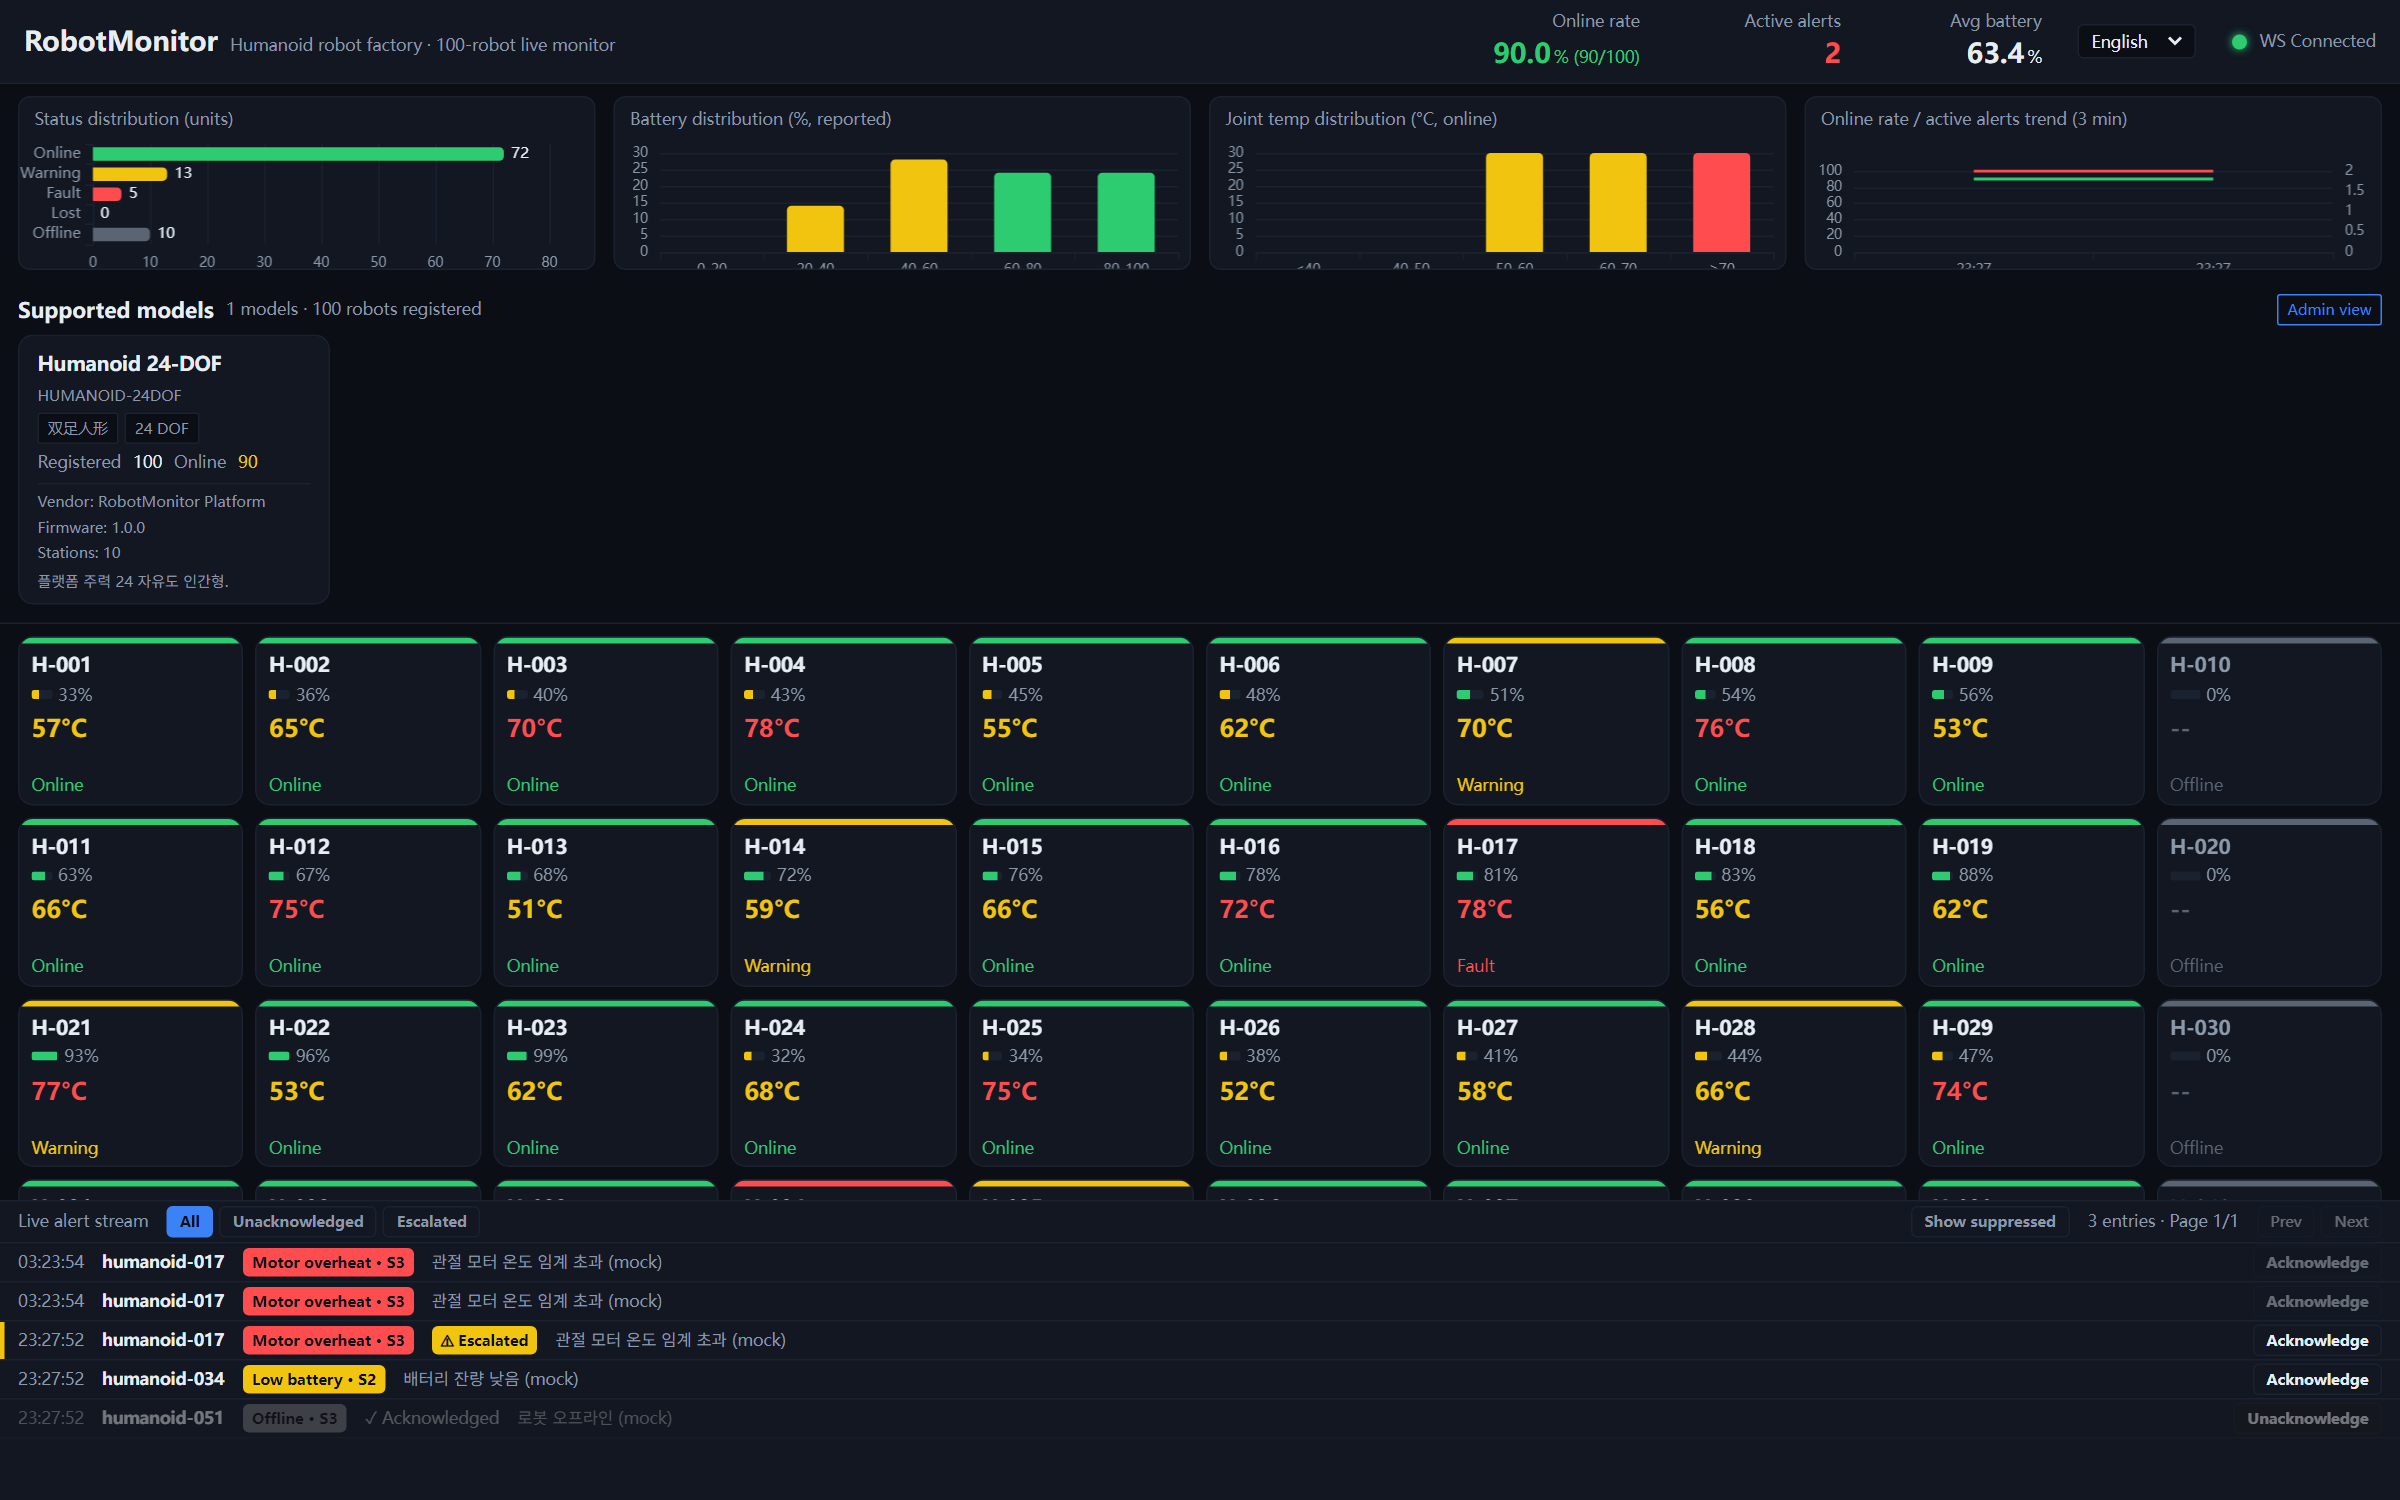
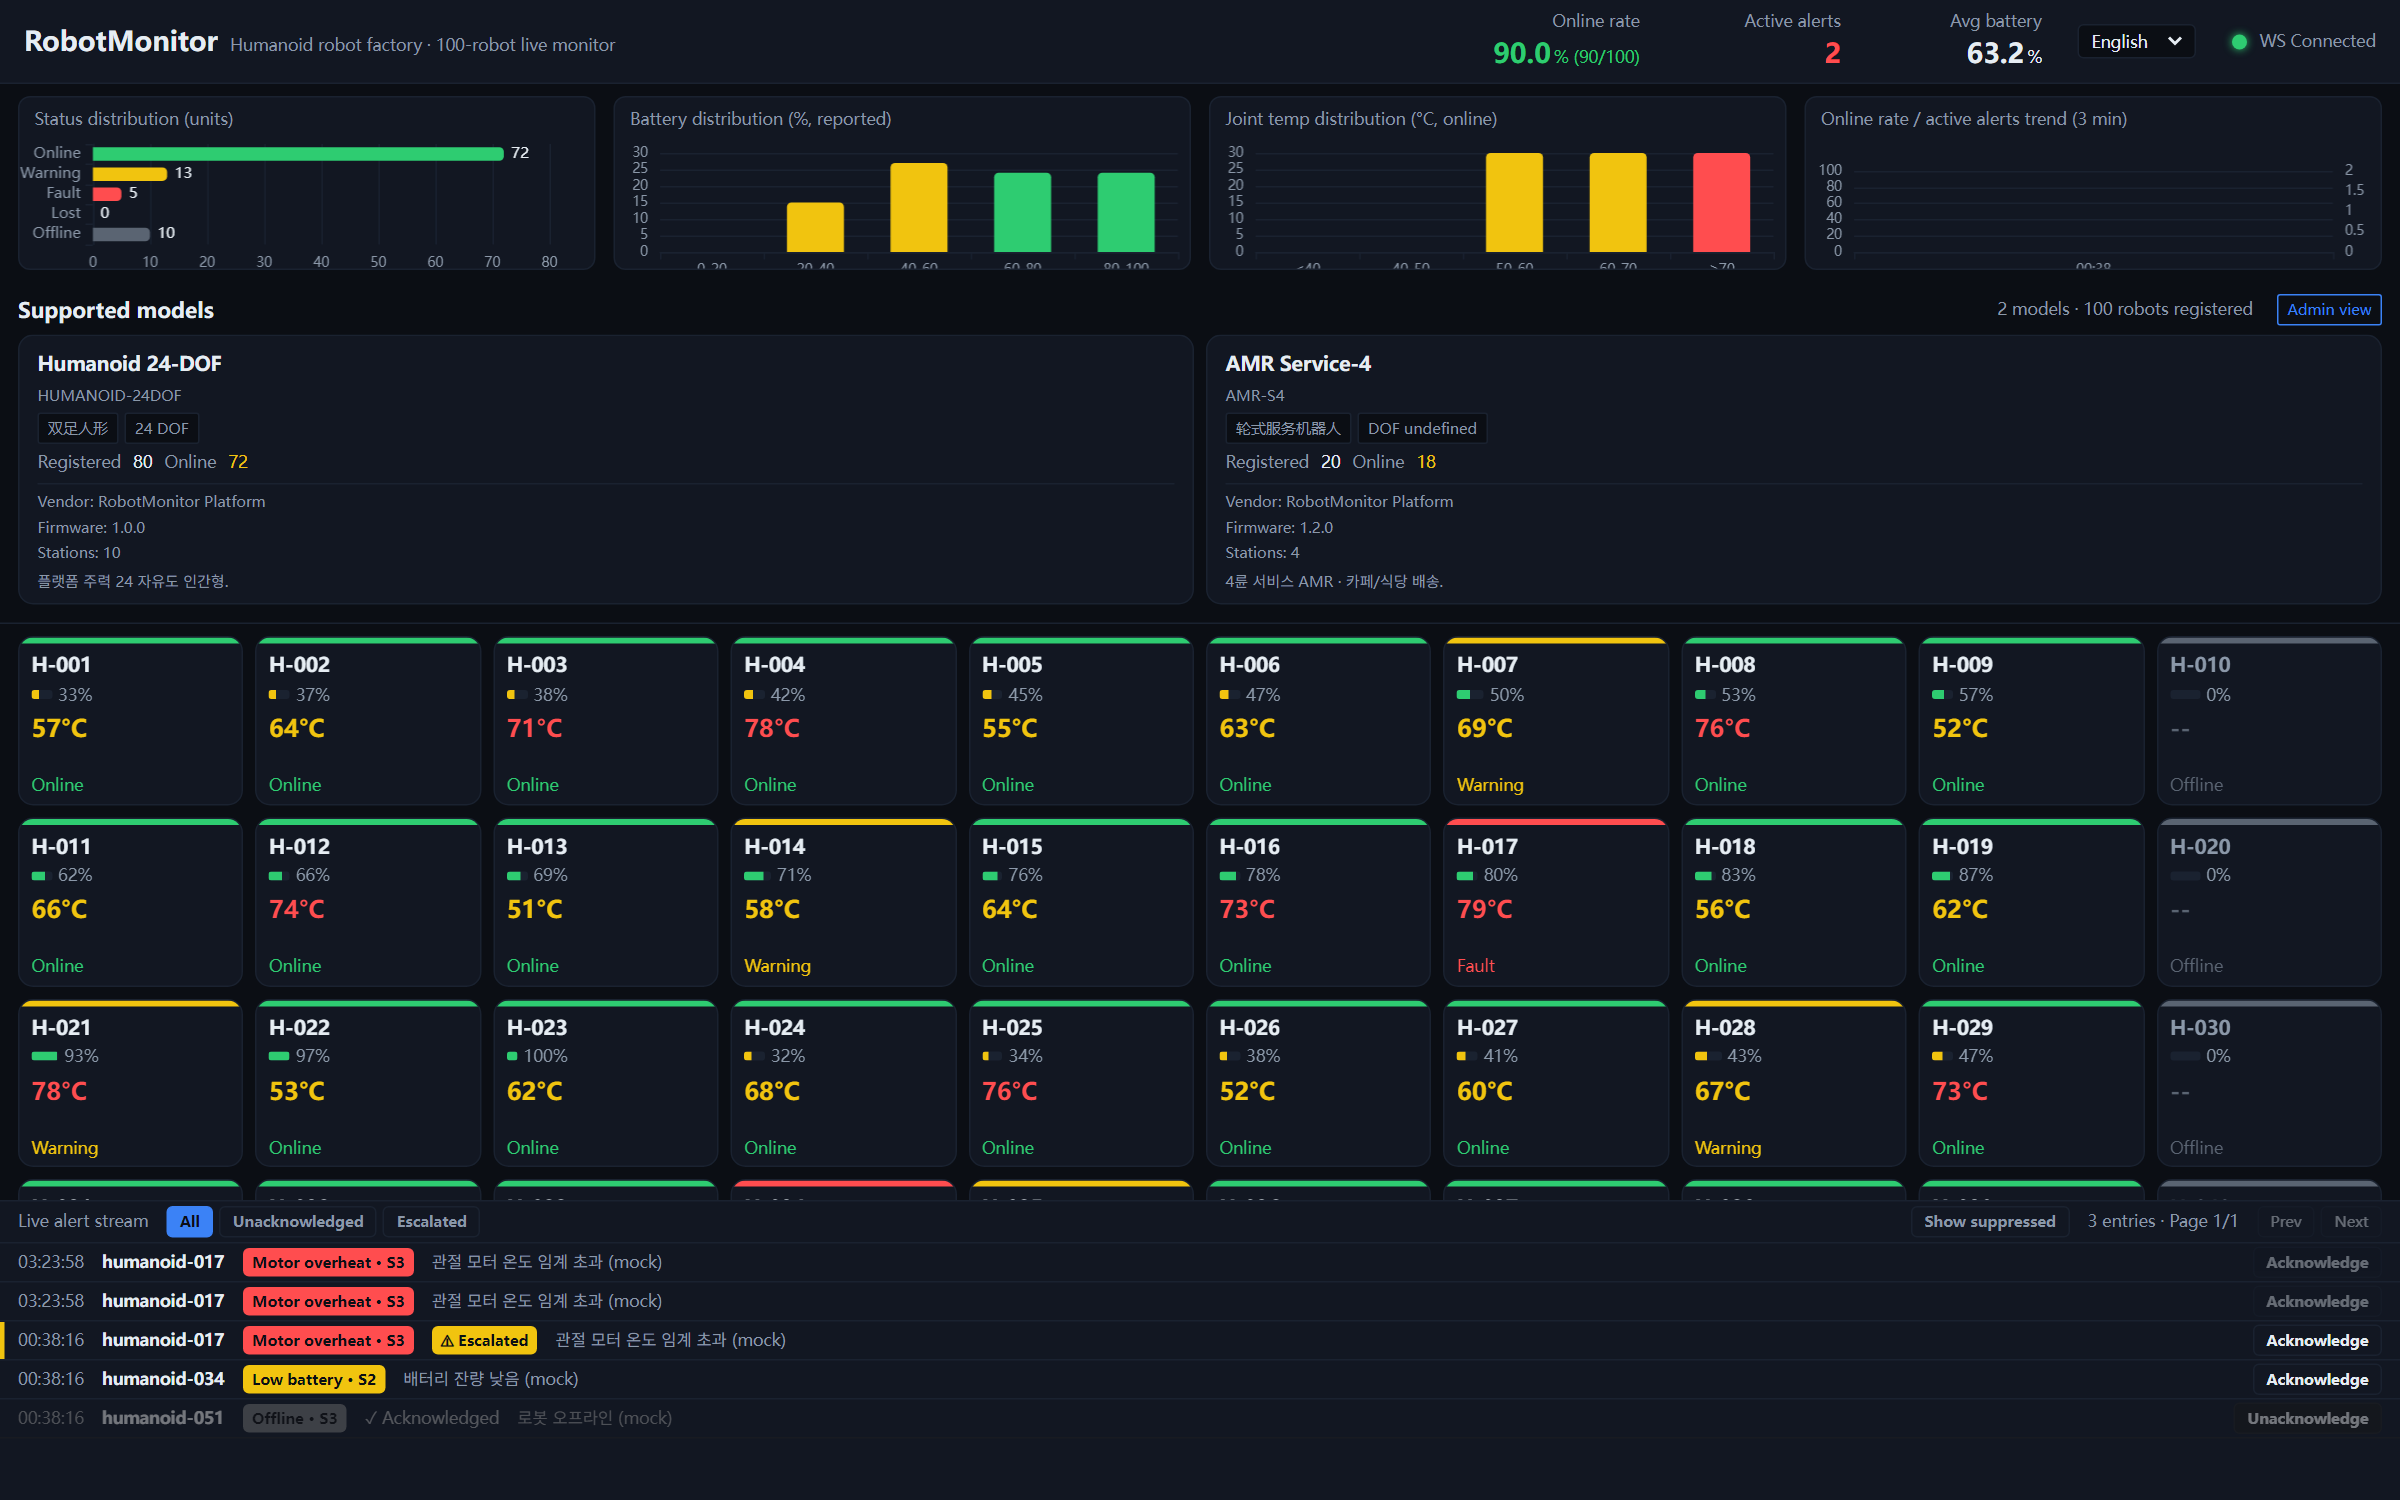
fix(UI): pluralize 'model' + responsive supported-models strip
- i18n: add sr.modelNoun_one/other; headerRight now shows '1 model' / 'N models'
- SupportedRobotsPanel: cards grow to fill width; header count right-aligned
- mock_backend: add 2nd demo model (AMR-S4) so the catalog strip reads naturally
- vitest: force VITE_API_BASE=:8000 (msw) so tests don't depend on a local .env.local
- capture scripts: resolve screenshot output to repo-root docs/assets (ESM-safe)
- README preview re-captured (2 models, correct plural)

diff --git a/frontend_dashboard/src/components/SupportedRobotsPanel.tsx b/frontend_dashboard/src/components/SupportedRobotsPanel.tsx
@@ -27,7 +27,12 @@ export default function SupportedRobotsPanel() {
   });
 
   const headerRight = data
-    ? t('sr.headerRight', { n: data.models.length, m: data.total_robots })
+    ? t('sr.headerRight', {
+        n: data.models.length,
+        modelNoun:
+          data.models.length === 1 ? t('sr.modelNoun_one') : t('sr.modelNoun_other'),
+        m: data.total_robots,
+      })
     : isLoading
       ? t('sr.loading')
       : '—';
@@ -41,10 +46,12 @@ export default function SupportedRobotsPanel() {
         <span style={{ ...FONT.title, fontSize: '14px', color: COLORS.textPrimary }}>
           {t('sr.header')}
         </span>
-        <span style={{ ...FONT.metric, color: COLORS.textSecondary }}>{headerRight}</span>
+        <span className="ml-auto" style={{ ...FONT.metric, color: COLORS.textSecondary }}>
+          {headerRight}
+        </span>
         {isAdmin && (
           <span
-            className="ml-auto px-1.5 py-0.5 rounded-sm"
+            className="ml-2 px-1.5 py-0.5 rounded-sm"
             style={{
               fontSize: '10px',
               color: COLORS.accent,
@@ -79,9 +86,9 @@ function ModelCard({ model, isAdmin }: { model: SupportedRobot; isAdmin: boolean
 
   return (
     <div
-      className="shrink-0 flex flex-col gap-1 px-3 py-2"
+      className="flex flex-col gap-1 px-3 py-2"
       style={{
-        minWidth: '208px',
+        flex: '1 1 240px',
         backgroundColor: COLORS.surface,
         border: `1px solid ${COLORS.border}`,
         borderRadius: RADIUS.card,

diff --git a/frontend_dashboard/vitest.config.ts b/frontend_dashboard/vitest.config.ts
@@ -32,5 +32,14 @@ export default defineConfig({
     setupFiles: ['./src/test/setup.ts'],
     include: ['src/**/*.{test,spec}.{ts,tsx}'],
     restoreMocks: true,
+    // 测试始终打 msw 的 8000 端口，与本地 `.env.local`（可能指向 8787 的 mock 后端）
+    // 解耦。否则带 `.env.local` 的开发者本地跑测试会因 /supported-robots 等端点
+    // 打到 8787 而飘红，CI（无 .env.local）却全绿 —— 这种不对称会让贡献者误判。
+    // 强制 8000 后，所有依赖真实 fetch 的用例都走 msw handler（契约即断言）。
+    env: {
+      VITE_API_BASE: 'http://localhost:8000',
+      VITE_WS_HOST: 'localhost',
+      VITE_WS_PORT: '8000',
+    },
   },
 });

diff --git a/frontend_dashboard/src/i18n/locales.ts b/frontend_dashboard/src/i18n/locales.ts
@@ -100,8 +100,13 @@ const en: Dict = {
   'suppressed.titleSimple': 'Suppressed by higher-severity alert',
 
   // Supported robots panel
+  // NOTE: English has plural forms for "model" (1 model / N models); Korean and
+  // Chinese are plural-agnostic, so their `sr.headerRight` strings simply omit the
+  // {modelNoun} placeholder (translate() ignores unused vars).
   'sr.header': 'Supported models',
-  'sr.headerRight': '{n} models · {m} robots registered',
+  'sr.headerRight': '{n} {modelNoun} · {m} robots registered',
+  'sr.modelNoun_one': 'model',
+  'sr.modelNoun_other': 'models',
   'sr.adminView': 'Admin view',
   'sr.loadFail': 'Model catalog load failed',
   'sr.loading': 'Loading…',
